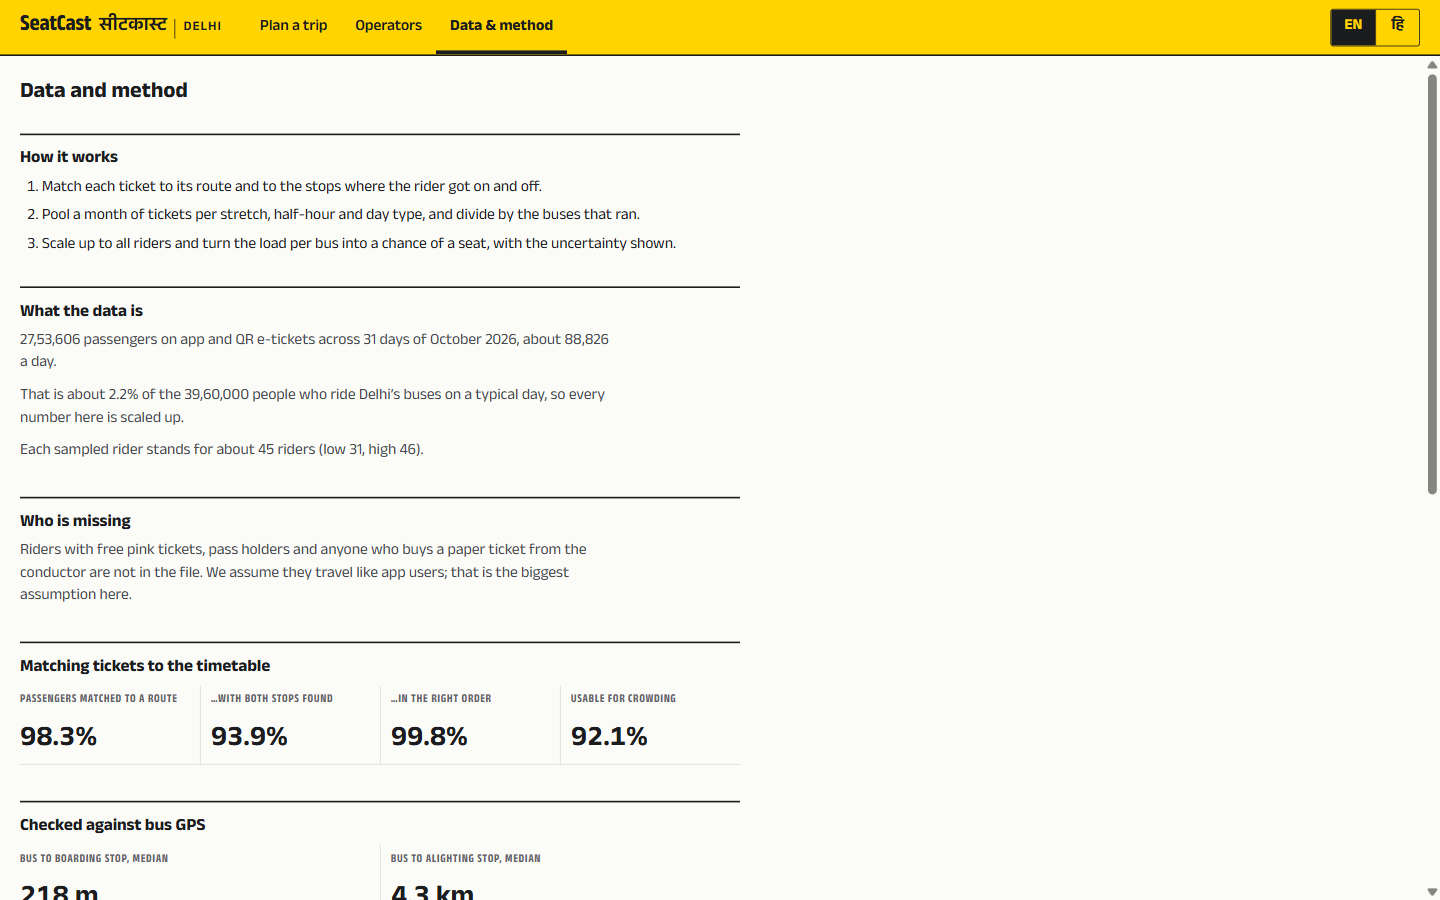
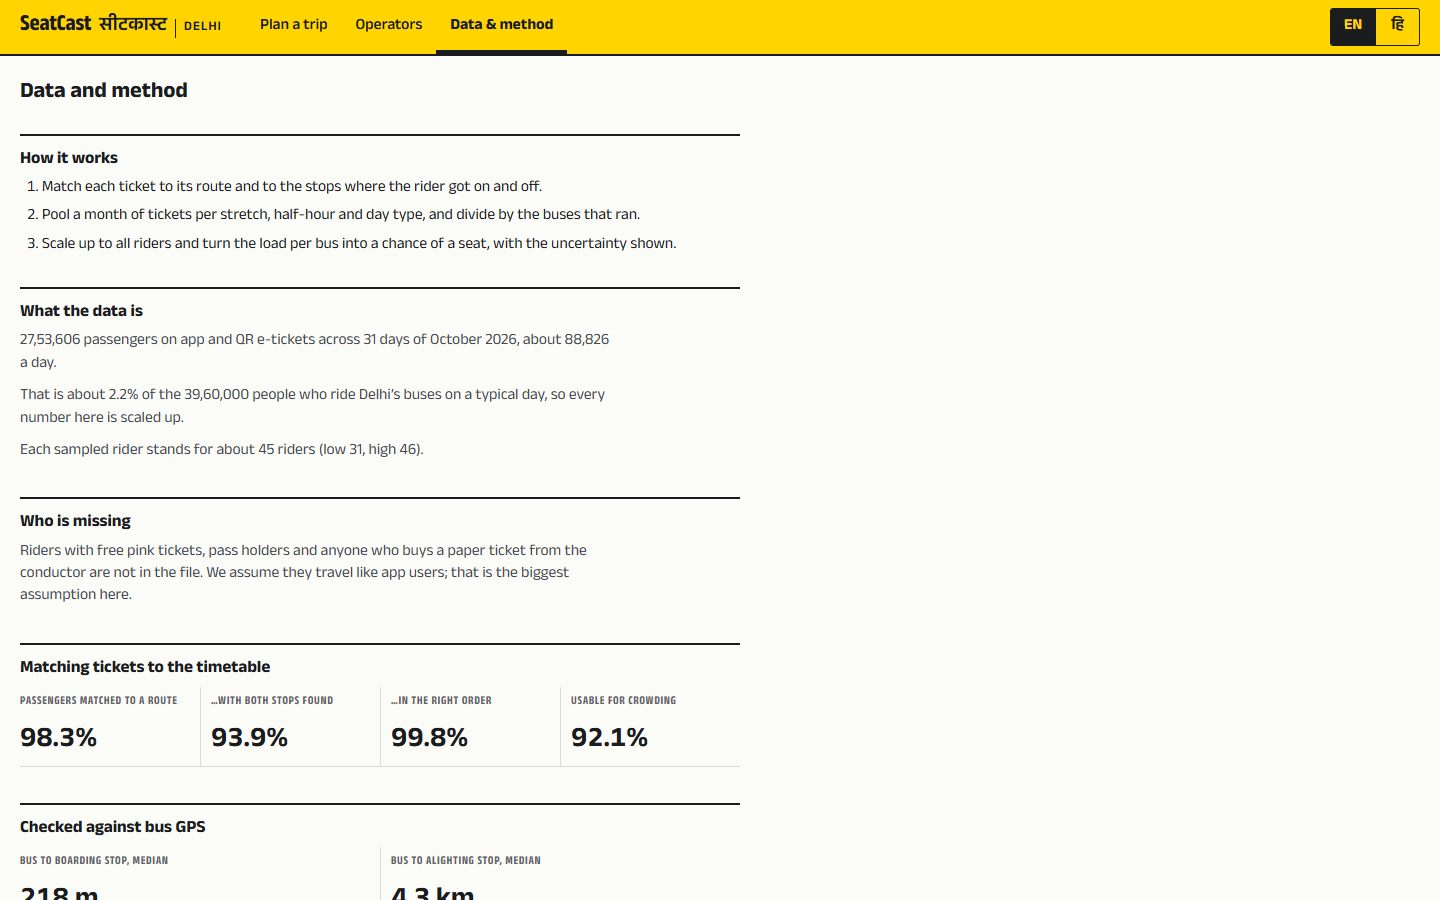
README screenshots and demo script updated to the measured seat chances

diff --git a/docs/DEMO_SCRIPT.md b/docs/DEMO_SCRIPT.md
@@ -9,7 +9,7 @@ Every number spoken or shown comes from the app on screen or from the generated 
 | 1 | Title card: *How crowded is my bus, really?* | "Every journey planner tells you the fastest bus. None of them tells you whether you'll get a seat." |
 | 2 | The planner opens on Anand Vihar → Connaught Place, 18:00 weekday; the crowded route is red on the map | "SeatCast does, for Delhi's buses, stretch by stretch." |
 | 3 | Ring the query, then the three option rows | "This is the brief's own example. From Anand Vihar, to Connaught Place, at six in the evening, on a weekday. Every option shows its travel time, and how crowded it usually is." |
-| 4 | Open the fastest (473 + 85, 18:00–18:45): seats 1/10; ring each leg's strip | "The fastest takes 45 minutes, but you'd get a seat on only one trip in ten. The strip shows exactly where: packed from Anand Vihar to Laxmi Nagar, and again on the second bus." |
+| 4 | Open the fastest (473 + 85, 18:00–18:45): seats 2/10; ring each leg's strip | "The fastest takes 45 minutes, but you'd get a seat on only two trips in ten. The strip shows exactly where: packed from Anand Vihar to Laxmi Nagar, and again on the second bus." |
 | 5 | Scroll to its suggestion: board upstream at Yamuna Sport Complex | "SeatCast also hunts for a seat. Walk ten minutes back to Yamuna Sport Complex, board there, and you'll almost surely sit." |
 | 6 | Switch to *Most comfortable*; open 39A + 317A (18:10–18:51, seats 10/10) | "Or switch to most comfortable. Leave ten minutes later on the 39A, and you arrive just six minutes later, with a seat on nearly every trip." |
 | 7 | Ring the confidence line, then the 317A leg (limited data) | "Every estimate shows how many sampled riders it rests on. Where there are too few, like the second bus here, it simply says limited data." |

diff --git a/README.md b/README.md
@@ -9,7 +9,7 @@ Built for the **Delhi Transport Stack Hackathon 2026, Problem 2** (crowdedness-a
 
 ### ▶ [Watch the 3-minute demo video](https://youtu.be/QW0uWUYJfwQ)
 
-![Planner: Anand Vihar ISBT to Connaught Place at 18:00 on a weekday. Seat likely at boarding, then crowded from Hasanpur Depot into CP; the strip shows crowding stop by stop](docs/img/screen-planner.png)
+![Planner: Anand Vihar to Connaught Place at 18:00 on a weekday. The fastest option (473 + 85, 45 min) is crowded from the first stop, with a seat on 2 of 10 trips; the strips show crowding stop by stop](docs/img/screen-planner.png)
 
 > **Submission documents:** [Demo video](https://youtu.be/QW0uWUYJfwQ) · [Proposal (PDF)](docs/SeatCast_Proposal.pdf) · [Technical note (PDF)](docs/SeatCast_Technical_Note.pdf) · [Validation report](docs/CHECKS.md) · [Demo script](docs/DEMO_SCRIPT.md)
 
